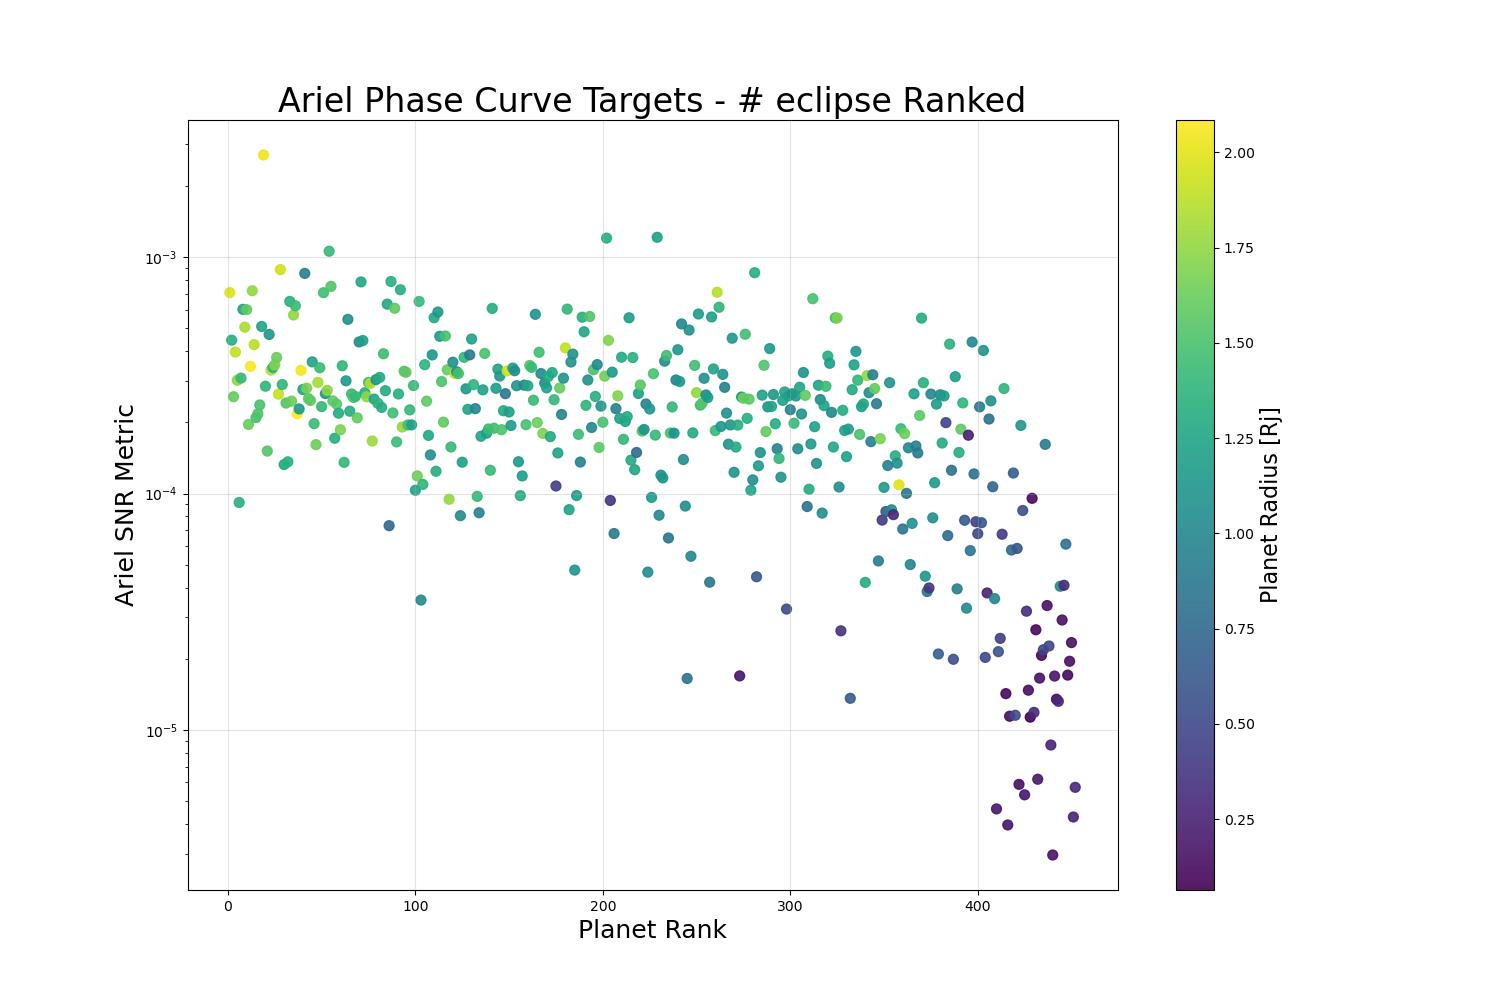
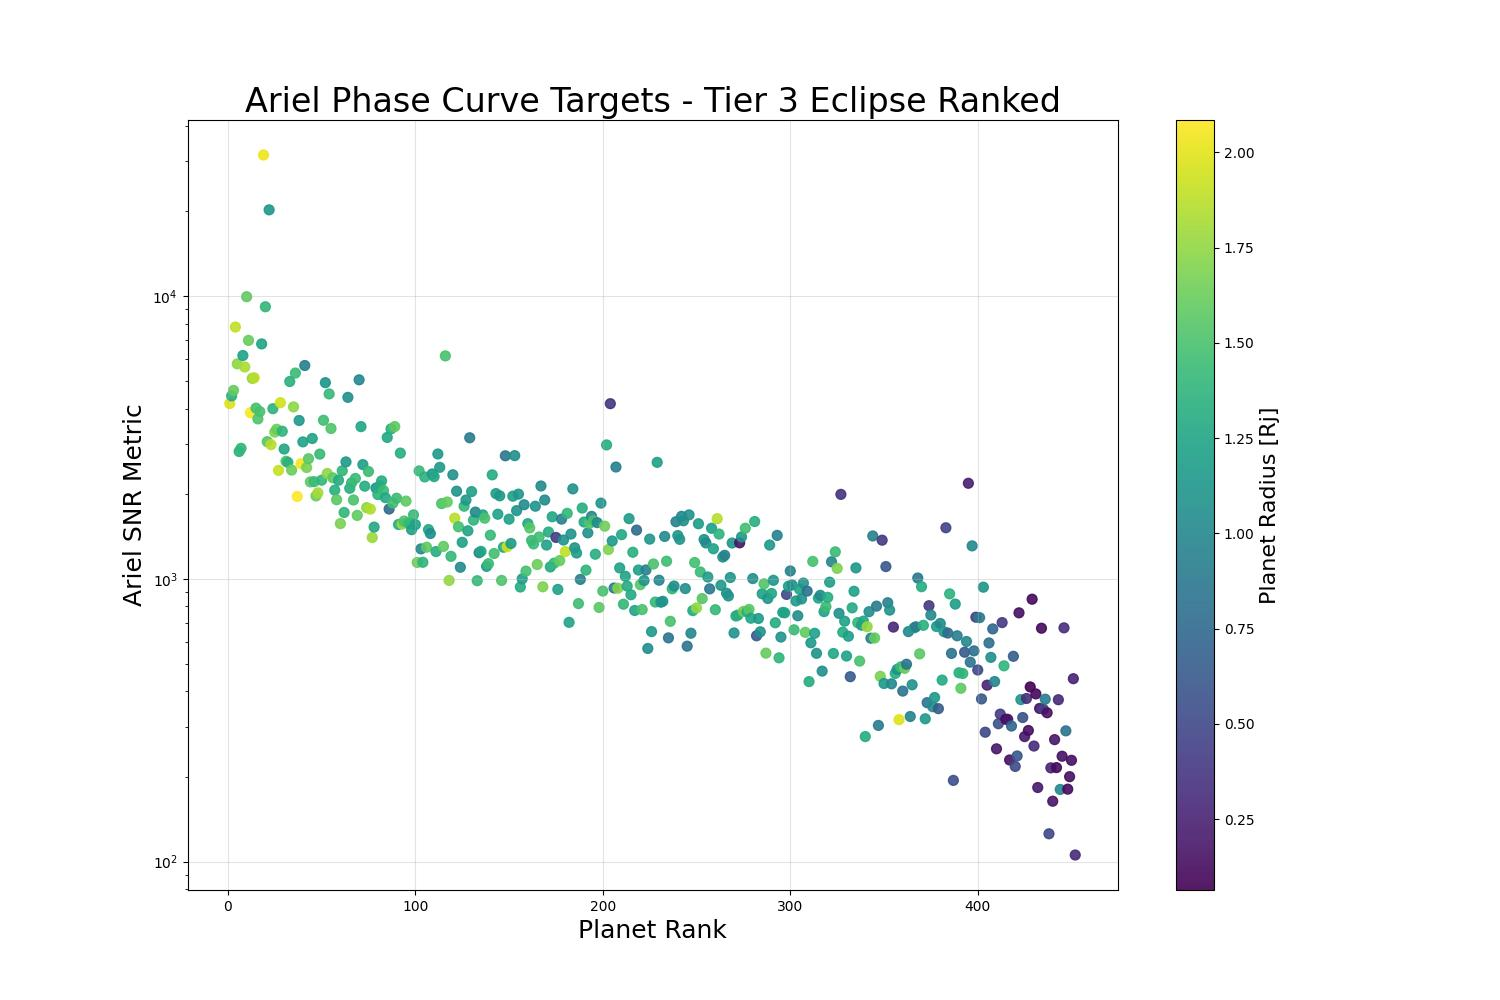
edit some file

diff --git a/Ariel_metric_rank.py b/Ariel_metric_rank.py
@@ -24,3 +24,28 @@ plt.yscale('log')
 plt.savefig(save_dir + 'Ariel-PhaseCurve-ASM-Rank.jpg')
 
 plt.show()
+
+fig, ax = plt.subplots(figsize=(15, 10))
+# plt.figure(figsize=(15,10))
+
+min_, max_ = ariel_sort_ASM['Planet Radius [Rj]'].min(), ariel_sort_ASM['Planet Radius [Rj]'].max()
+# cmap='viridis_r'
+cmap = 'PiYG'
+
+Ariel_plot = ax.scatter(ariel_sort_eclipse_num.index.tolist(), ariel_sort_eclipse_num['ASM'],
+                        alpha=0.9, s = 50, c = ariel_sort_eclipse_num['Planet Radius [Rj]'], marker="o",
+                        label = "Ariel", zorder = 1)
+
+clb = fig.colorbar(Ariel_plot, ax=ax)  # .set_label('$\\bf{ESM} $',rotation=270,fontsize=15)
+#clb.ax.set_title('Planetary Equilibrium Temperature [K]', fontweight='bold')
+clb.set_label('Planet Radius [Rj]',fontsize=16)
+
+plt.grid(True, alpha=0.35)
+plt.xlabel("Planet Rank", fontsize=18)
+plt.ylabel("Ariel SNR Metric", fontsize=18)
+plt.title("Ariel Phase Curve Targets - Tier 3 Eclipse Ranked", fontsize=24)
+plt.yscale('log')
+# plt.ylim([0,105])
+plt.savefig(save_dir + 'Ariel-PhaseCurve-Eclipse-ASM-Rank.jpg')
+
+plt.show()

diff --git a/partial_phasecurve.py b/partial_phasecurve.py
@@ -48,7 +48,7 @@ ax.axhline(120, color='orange', linestyle='solid', linewidth=2, alpha=0.75, zord
 plt.grid(True, alpha=0.35)
 plt.xlabel("# of planets", fontsize=18, fontweight='bold')
 plt.ylabel("Cumulative Observational Time [days]", fontsize=18, fontweight='bold')
-plt.title("Ariel Partial Phase Curve Cumulative Observational Time", fontsize=24, fontweight='bold')
+plt.title("Ariel Partial Phase Curve (> 48hr) Cumulative Observational Time", fontsize=24, fontweight='bold')
 plt.xticks(fontsize=17)
 plt.yticks(fontsize=17)
 plt.legend(title = "Partial Observing Angle (°)")
